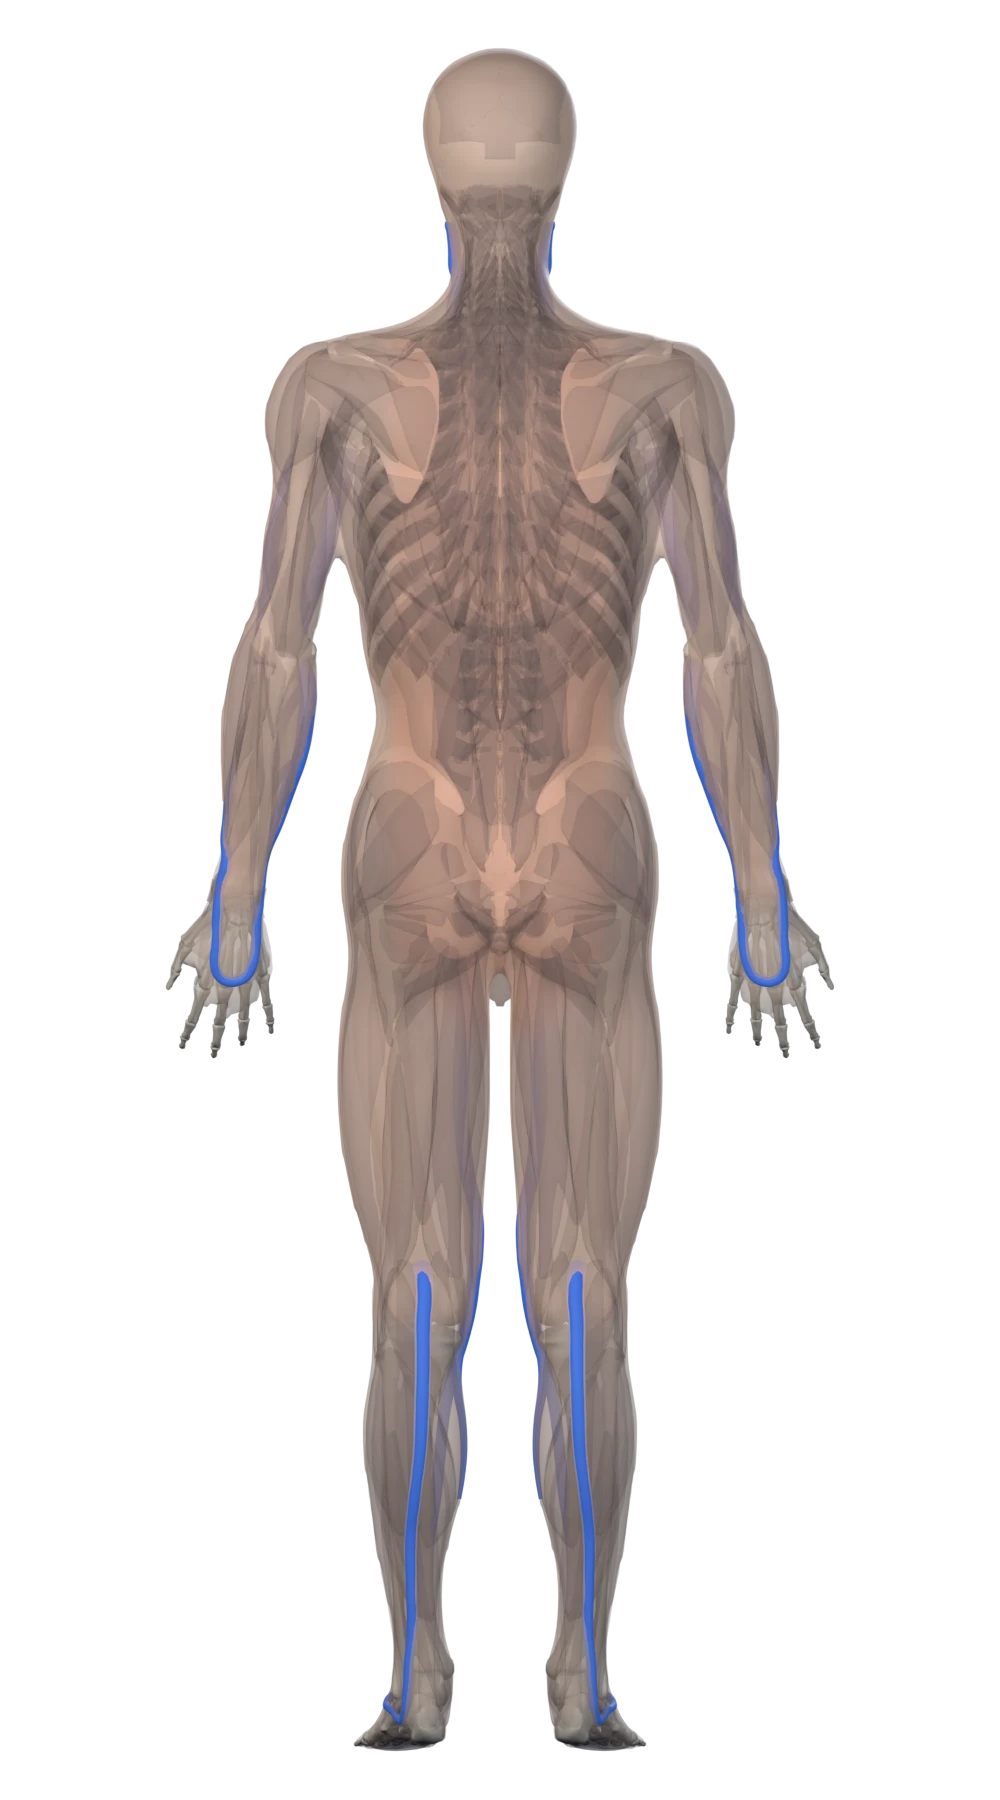
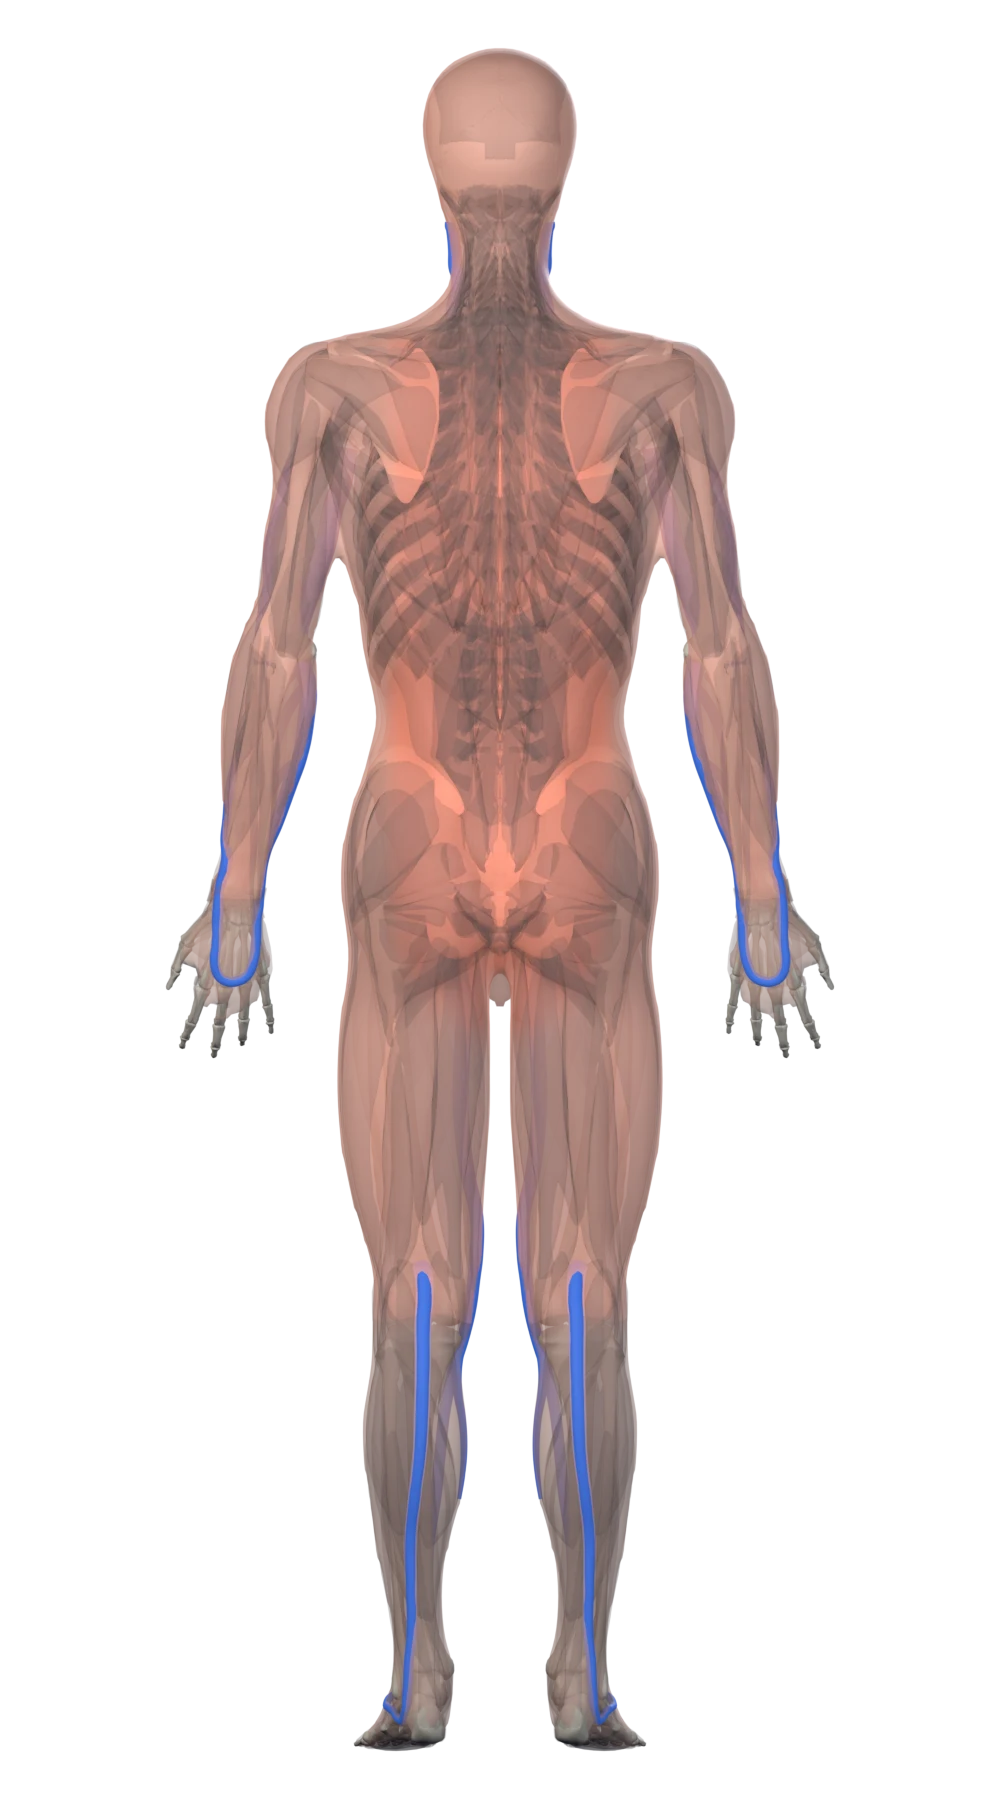
fix(atlas): skóra w kolorze z palette.json (#FA947A), emisja wg wspólnej reguły (maks. 0,25), ponowny render
Pomiar obcięcia: przy maks. 0,35 czoło 2,2% pikseli R=255 w najjaśniejszej ćwiartce ciała; przy 0,25: 1,0% (przód),
0,5% (tył), 0,4% (przekrój).

diff --git a/blender/atlas/plate_powlokowy.py b/blender/atlas/plate_powlokowy.py
@@ -295,7 +295,10 @@ SKIN_ALPHA = {"rest": 0.6, "sprint": 0.6}
 SPRINT_ALPHA_HIGH = 0.93  # sprint: krycie rośnie ze stopniem (niski 0,6 jak spoczynek, wysoki 0,93)
 MUSCLE_ALPHA = float(os.environ.get("PWL_MUSCLE_A", "0.3"))  # 0 = bez mięśni
 LEVEL_LOW, LEVEL_HIGH = 0.4, 1.0  # stopnie w sprincie: niski 0,4, średni 0,7, wysoki 1,0 (spoczynek: 0,35)
-SKIN_EMISSION = 0.35  # emisja = 0,35 × stopień (księga stylu: 0,15-0,35 tylko tam, gdzie struktura pracuje)
+# Emisja wg wspólnej reguły (palette.json → emission, al.emission_for): świeci tylko stopień ≥ minLevel (0,6),
+# od min (0,15) do max. Maksimum własne 0,25 zamiast 0,35 z palety: kolor #FA947A ma R = 250, więc przy 0,35 czoło
+# obcinało kanał R (pomiar K3: 2,2% pikseli R = 255 w najjaśniejszej ćwiartce ciała; przy 0,25: 1,0%).
+SKIN_EMISSION_MAX = float(os.environ.get("PWL_SKIN_EMAX", "0.25"))
 
 
 def skin_layer_material(state):
@@ -341,10 +344,23 @@ def skin_layer_material(state):
         nt.links.new(ra.outputs["Result"], bsdf.inputs["Alpha"])
         nt.links.new(out, bsdf.inputs["Base Color"])
         nt.links.new(out, bsdf.inputs["Emission Color"])
-        em = nt.nodes.new("ShaderNodeMath")  # emisja = EMISSION × (pwl_sweat)
+        # emisja = emission_for(stopień): stopień < minLevel -> 0; dalej liniowo min..SKIN_EMISSION_MAX
+        lo = al.EMISSION_RULE["minLevel"]
+        er = nt.nodes.new("ShaderNodeMapRange")
+        er.clamp = True
+        er.inputs["From Min"].default_value = lo
+        er.inputs["From Max"].default_value = 1.0
+        er.inputs["To Min"].default_value = al.EMISSION_RULE["min"]
+        er.inputs["To Max"].default_value = SKIN_EMISSION_MAX
+        nt.links.new(rng.outputs["Result"], er.inputs["Value"])
+        gate = nt.nodes.new("ShaderNodeMath")
+        gate.operation = 'GREATER_THAN'
+        gate.inputs[1].default_value = lo - 1e-4
+        nt.links.new(rng.outputs["Result"], gate.inputs[0])
+        em = nt.nodes.new("ShaderNodeMath")
         em.operation = 'MULTIPLY'
-        em.inputs[1].default_value = SKIN_EMISSION
-        nt.links.new(attr.outputs["Fac"], em.inputs[0])
+        nt.links.new(er.outputs["Result"], em.inputs[0])
+        nt.links.new(gate.outputs["Value"], em.inputs[1])
         nt.links.new(em.outputs["Value"], bsdf.inputs["Emission Strength"])
     try:
         mat.surface_render_method = 'BLENDED'
@@ -598,7 +614,7 @@ detail_objs = [epidermis, dermis, hypodermis, gland_coil, gland_duct, follicle, 
 detail_objs += [o for d in (ves_rest, ves_sprint) for k in d for o in d[k]]
 
 # ============================================================ plansza
-LIGHT_SKIN = al.hex_to_linear("#E5C3B3")
+LIGHT_SKIN = al.hex_to_linear(al.SYSTEM_LIGHT["skin"])
 EPI_COL = al.mix(LIGHT_SKIN, BONE, 0.25)
 DERM_COL = al.mix(SKIN, MUSC, 0.15)
 HYPO_COL = al.mix(BONE, al.hex_to_linear("#E8D6A8"), 0.45)  # tłuszcz: kremowy (jasny kontekst, nie kolor układu)
